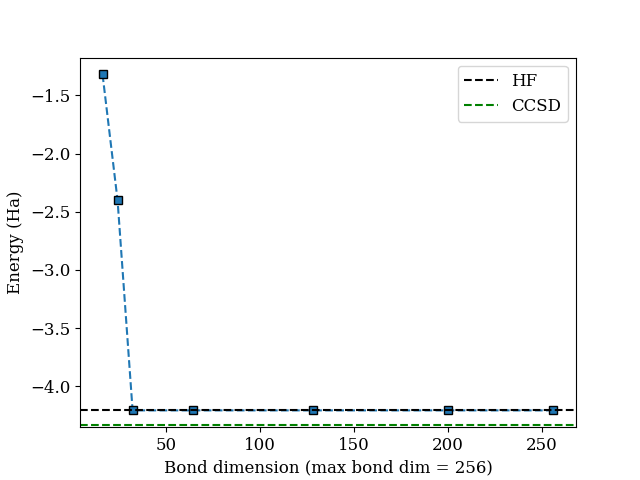
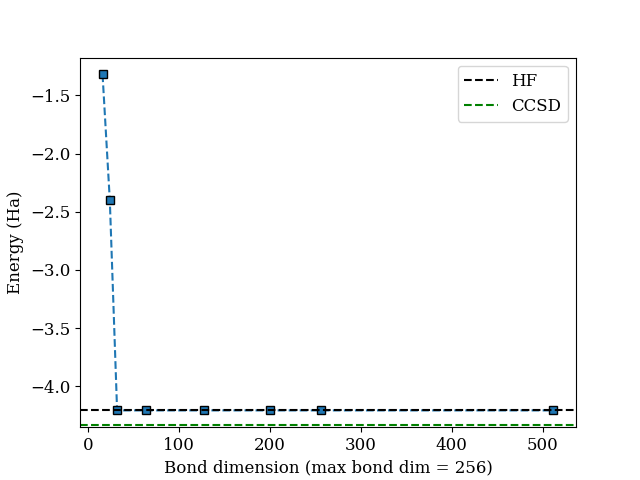
Bug fixing long run sims and h chain benchmarking

diff --git a/src/h_chain_benchmarking/benchmark.py b/src/h_chain_benchmarking/benchmark.py
@@ -59,11 +59,6 @@ def create_circuit(natoms):
     cas = pyscf.mcscf.CASCI(scf, norb, nelec)
     mo = cas.sort_mo(active_space, base=0)
 
-    # Perturb t1/t2 to emulate unconverged CCSD.
-    lambda_value = 0.01
-    #t1 += np.random.randn(*t1.shape) * np.abs(t1) * lambda_value
-    #t2 += np.random.randn(*t2.shape) * np.abs(t2) * lambda_value
-
     hcore, nuclear_repulsion_energy = cas.get_h1cas(mo)
     eri = pyscf.ao2mo.restore(1, cas.get_h2cas(mo), norb)
 
@@ -212,7 +207,7 @@ def simulate_energy(circuit, hamiltonian, max_bond, verbose=True):
 
 
 atom_nums = [8, 16, 24, 32]
-chi_values = [16, 24, 32, 64, 128, 200, 256]
+chi_values = [16, 24, 32, 64, 128, 200, 256, 512]
 
 for num in atom_nums:
     print(f"\n\n------ Starting {num} atom benchmarking ------\n\n")
@@ -248,6 +243,8 @@ for num in atom_nums:
     plt.ylim(scf_val - 0.200, scf_val + 0.500)
     plt.legend()
 
+    plt.title(f"{num} Atom Energy Convergence")
+
     plt.savefig(f"plots/{num}_atom_benchmarking.png")
     plt.clf()
 
@@ -259,6 +256,8 @@ for num in atom_nums:
     plt.xlabel("Bond dimension (max bond dim = 256)")
     plt.ylabel("Energy (Ha)")
     plt.legend()
+    
+    plt.title(f"{num} Atom Energy Convergence")
     
     plt.savefig(f"plots/{num}_atom_convergence.png")
     plt.clf()

diff --git a/src/iron_sulfur/entire_prop.py b/src/iron_sulfur/entire_prop.py
@@ -29,9 +29,7 @@ def simulate(
     backend: str = "cpu",
     max_bond: Optional[int] = None,
     cutoff: float = 0.0,
-    save_every: Optional[int] = None,
 ) -> qtn.MatrixProductState:
-    save = isinstance(save_every, int)
 
     max_bonds = []
     bond_sizes = []
@@ -58,7 +56,7 @@ def simulate(
         if op.name == "barrier":
             continue
 
-        qubit_indices = [qubits_to_indices[q] for q in qubits]
+        qubit_indices = [qubits_to_indices[q] for q in reversed(qubits)]
 
         to_apply = qu.qarray(Operator(op).data)
 
@@ -72,10 +70,9 @@ def simulate(
             max_bond=max_bond,
             cutoff=cutoff,
         )
+        #mps.compress(max_bond=max_bond, cutoff=cutoff)
         mps.compress()
         end = time.perf_counter()
-        if save and i % save_every == 0:
-            qu.save_to_disk(mps, f"mps_final_op_index_{i}")
 
         if verbose:
             max_bonds.append(mps.max_bond())
@@ -109,7 +106,7 @@ def sim_is(local):
     
     if local:
         alpha_alpha_indices = [(p, p + 1) for p in range(num_orb - 1)]
-        alpha_beta_indices  = [(p, p) for p in range(0, num_orb)]
+        alpha_beta_indices  = [(p, p) for p in range(0, num_orb, 4) if p <= 16]
     else:
         alpha_alpha_indices = None
         alpha_beta_indices  = None